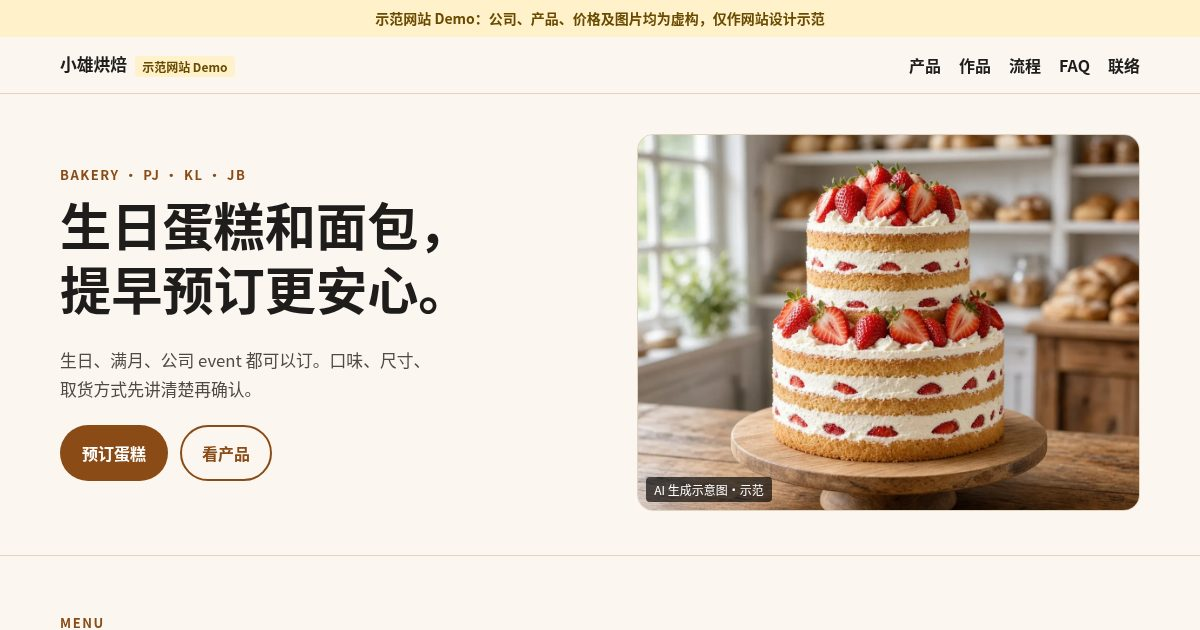
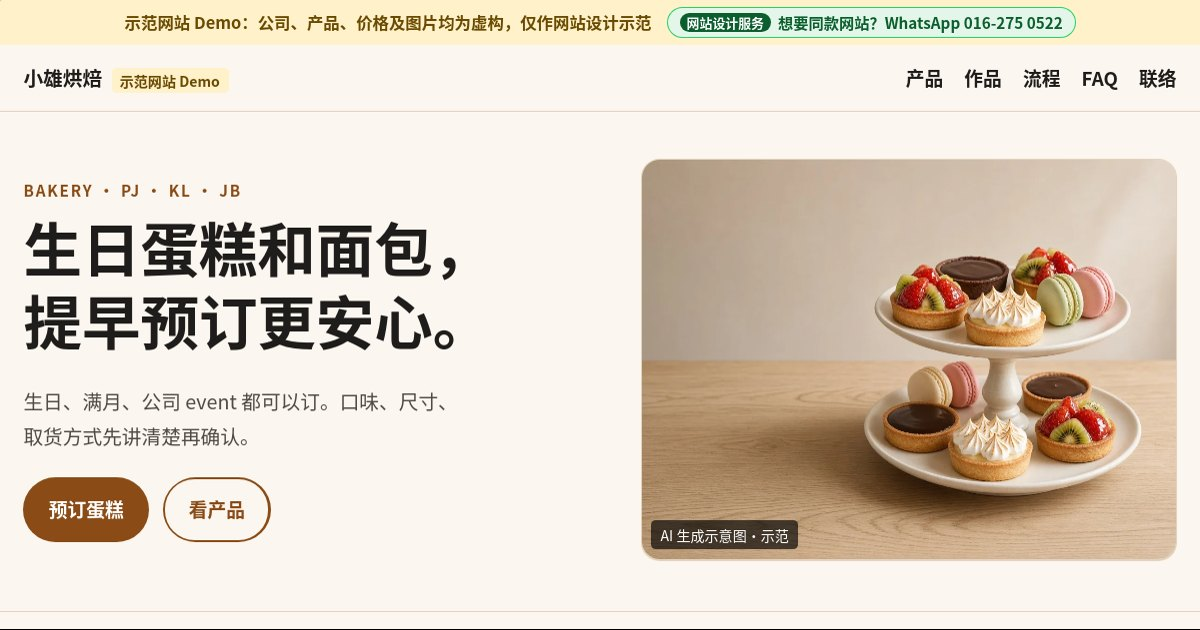
Bakery hero B; disable iOS phone auto-link

diff --git a/bakery-my/index.html b/bakery-my/index.html
@@ -2,6 +2,7 @@
 <html lang="zh-Hans-MY">
 <head>
 <meta charset="utf-8">
+<meta name="format-detection" content="telephone=no">
 <meta name="viewport" content="width=device-width,initial-scale=1,viewport-fit=cover">
 <title>小雄烘焙｜生日蛋糕、面包、塔类及节庆礼盒（示范网站 Demo）</title>
 <meta name="description" content="小雄烘焙（示范网站，虚构公司）：生日蛋糕、手工面包、塔类甜点及节庆礼盒订制，服务巴生谷 Klang Valley 及新山 JB。">
@@ -27,10 +28,10 @@
 <h1>生日蛋糕和面包，<br>提早预订更安心。</h1>
 <p class="lead">生日、满月、公司 event 都可以订。口味、尺寸、取货方式先讲清楚再确认。</p>
 <div class="cta-row"><a class="btn primary" href="#contact">预订蛋糕</a><a class="btn ghost" href="#services">看产品</a></div></div>
-<figure class="fig"><picture><source type="image/webp" srcset="assets/hero.webp"><img src="assets/hero.jpg" width="1024" height="768" alt="草莓奶油生日蛋糕（AI 生成示意图・示范）" fetchpriority="high" decoding="async"></picture><span class="lbl">AI 生成示意图・示范</span></figure></div></section>
+<figure class="fig"><picture><source type="image/webp" srcset="assets/hero.webp"><img src="assets/hero.jpg" width="1024" height="768" alt="法式甜点与水果塔（AI 生成示意图・示范）" fetchpriority="high" decoding="async"></picture><span class="lbl">AI 生成示意图・示范</span></figure></div></section>
 <main>
 <section id="services" class="sec"><div class="wrap"><p class="eyebrow">MENU</p><h2>产品与订制</h2><p class="sec-lead">以下价格均为示范占位，并非真实报价，以真实商家为准。</p><ul class="svc"><li><h3>生日蛋糕</h3><p>可选口味及尺寸，写字另计（示范）。</p><span class="price-ph">示范价格 RM XX 起（参考占位）</span></li><li><h3>手工面包</h3><p>吐司、软包，每日款式由商家更新。</p><span class="price-ph">示范价格 RM X 起（参考占位）</span></li><li><h3>塔类甜点</h3><p>蛋塔、水果塔，适合下午茶。</p><span class="price-ph">示范价格 RM X 起（参考占位）</span></li><li><h3>曲奇饼干</h3><p>罐装或散装，可做小礼物。</p><span class="price-ph">示范价格 RM XX 起（参考占位）</span></li><li><h3>节庆礼盒</h3><p>农历新年、中秋、Raya 礼盒（示范）。</p><span class="price-ph">示范价格 RM XX 起（参考占位）</span></li><li><h3>活动甜点桌</h3><p>公司或派对 dessert table，需预约。</p><span class="price-ph">示范价格 RM XXX 起（参考占位）</span></li></ul></div></section>
-<section id="gallery" class="sec alt"><div class="wrap"><p class="eyebrow">GALLERY</p><h2>产品示意</h2><p class="sec-lead">以下为 AI 生成示意图，并非真实产品／工程，仅作示范。</p><div class="gal"><div><figure class="fig"><picture><source type="image/webp" srcset="assets/hero.webp"><img src="assets/hero.jpg" width="1024" height="768" alt="草莓奶油生日蛋糕（AI 生成示意图・示范）" loading="lazy" decoding="async"></picture><span class="lbl">AI 生成示意图・示范</span></figure><figcaption>生日蛋糕（示意）</figcaption></div><div><figure class="fig"><picture><source type="image/webp" srcset="assets/bread.webp"><img src="assets/bread.jpg" width="1024" height="768" alt="手工面包（AI 生成示意图・示范）" loading="lazy" decoding="async"></picture><span class="lbl">AI 生成示意图・示范</span></figure><figcaption>手工面包（示意）</figcaption></div><div><figure class="fig"><picture><source type="image/webp" srcset="assets/tart.webp"><img src="assets/tart.jpg" width="1024" height="768" alt="水果塔（AI 生成示意图・示范）" loading="lazy" decoding="async"></picture><span class="lbl">AI 生成示意图・示范</span></figure><figcaption>水果塔（示意）</figcaption></div><div><figure class="fig"><picture><source type="image/webp" srcset="assets/cookie.webp"><img src="assets/cookie.jpg" width="1024" height="768" alt="礼盒曲奇（AI 生成示意图・示范）" loading="lazy" decoding="async"></picture><span class="lbl">AI 生成示意图・示范</span></figure><figcaption>礼盒曲奇（示意）</figcaption></div></div><p class="fine">※ AI 生成示意图，并非真实产品／工程，仅作示范。</p></div></section>
+<section id="gallery" class="sec alt"><div class="wrap"><p class="eyebrow">GALLERY</p><h2>产品示意</h2><p class="sec-lead">以下为 AI 生成示意图，并非真实产品／工程，仅作示范。</p><div class="gal"><div><figure class="fig"><picture><source type="image/webp" srcset="assets/hero.webp"><img src="assets/hero.jpg" width="1024" height="768" alt="法式甜点与水果塔（AI 生成示意图・示范）" loading="lazy" decoding="async"></picture><span class="lbl">AI 生成示意图・示范</span></figure><figcaption>法式甜点（示意）</figcaption></div><div><figure class="fig"><picture><source type="image/webp" srcset="assets/bread.webp"><img src="assets/bread.jpg" width="1024" height="768" alt="手工面包（AI 生成示意图・示范）" loading="lazy" decoding="async"></picture><span class="lbl">AI 生成示意图・示范</span></figure><figcaption>手工面包（示意）</figcaption></div><div><figure class="fig"><picture><source type="image/webp" srcset="assets/tart.webp"><img src="assets/tart.jpg" width="1024" height="768" alt="水果塔（AI 生成示意图・示范）" loading="lazy" decoding="async"></picture><span class="lbl">AI 生成示意图・示范</span></figure><figcaption>水果塔（示意）</figcaption></div><div><figure class="fig"><picture><source type="image/webp" srcset="assets/cookie.webp"><img src="assets/cookie.jpg" width="1024" height="768" alt="礼盒曲奇（AI 生成示意图・示范）" loading="lazy" decoding="async"></picture><span class="lbl">AI 生成示意图・示范</span></figure><figcaption>礼盒曲奇（示意）</figcaption></div></div><p class="fine">※ AI 生成示意图，并非真实产品／工程，仅作示范。</p></div></section>
 <section id="process" class="sec"><div class="wrap"><p class="eyebrow">HOW IT WORKS</p><h2>预订流程</h2><ol class="steps"><li><h3>选款式</h3><p>讲清楚口味、尺寸和数量。</p></li><li><h3>确认细节</h3><p>写字、过敏原及取货日期（示范）。</p></li><li><h3>付订金</h3><p>付款方式以真实商家为准（示范）。</p></li><li><h3>取货／送货</h3><p>自取或安排送货，详情由商家填写。</p></li></ol></div></section>
 <section id="contact" class="sec alt"><div class="wrap"><p class="eyebrow">CONTACT</p><h2>预订／查询</h2><p class="sec-lead">联络前可准备：</p><ul class="chips"><li>🎂 款式参考图</li><li>📏 尺寸或人数</li><li>📅 取货日期</li><li>⚠ 过敏原</li></ul>
 <p>电话：<span class="demo-phone">+60 1X-XXX XXXX（示范号码）</span></p>

diff --git a/tutor-my/index.html b/tutor-my/index.html
@@ -2,6 +2,7 @@
 <html lang="zh-Hans-MY">
 <head>
 <meta charset="utf-8">
+<meta name="format-detection" content="telephone=no">
 <meta name="viewport" content="width=device-width,initial-scale=1,viewport-fit=cover">
 <title>小雄补习中心｜小学、中学补习，华文、BM、English、数学、科学（示范网站 Demo）</title>
 <meta name="description" content="小雄补习中心（示范网站，虚构公司）：小学及中学补习：华文、BM、English、数学、科学，实体或网课，服务巴生谷 Klang Valley 及新山 JB。">

diff --git a/pest-my/index.html b/pest-my/index.html
@@ -2,6 +2,7 @@
 <html lang="zh-Hans-MY">
 <head>
 <meta charset="utf-8">
+<meta name="format-detection" content="telephone=no">
 <meta name="viewport" content="width=device-width,initial-scale=1,viewport-fit=cover">
 <title>小雄虫控｜白蚁检查处理、蟑螂、蚂蚁、老鼠及蚊虫处理（示范网站 Demo）</title>
 <meta name="description" content="小雄虫控（示范网站，虚构公司）：白蚁检查与处理、蟑螂、蚂蚁、老鼠及蚊虫处理，住家及店铺，服务巴生谷 Klang Valley 及新山 JB。">

diff --git a/index.html b/index.html
@@ -2,6 +2,7 @@
 <html lang="zh-Hans-MY">
 <head>
 <meta charset="utf-8">
+<meta name="format-detection" content="telephone=no">
 <meta name="viewport" content="width=device-width,initial-scale=1,viewport-fit=cover">
 <title>马来西亚小商家单页网站示范总览（示范网站 Demo）</title>
 <meta name="description" content="为马来西亚华人小商家设计的手机优先单页网站示范：装修、烘焙、花店、美甲美睫、补习、手作、冷气、搬屋、驱虫及宠物美容。所有公司均为虚构。">

diff --git a/handmade-my/index.html b/handmade-my/index.html
@@ -2,6 +2,7 @@
 <html lang="zh-Hans-MY">
 <head>
 <meta charset="utf-8">
+<meta name="format-detection" content="telephone=no">
 <meta name="viewport" content="width=device-width,initial-scale=1,viewport-fit=cover">
 <title>小雄手作｜手作陶器、香薰蜡烛、编织及皮革小物（示范网站 Demo）</title>
 <meta name="description" content="小雄手作（示范网站，虚构公司）：手作陶器、香薰蜡烛、编织及皮革小物，另有手作体验班，服务巴生谷 Klang Valley 及新山 JB。">

diff --git a/moving-my/index.html b/moving-my/index.html
@@ -2,6 +2,7 @@
 <html lang="zh-Hans-MY">
 <head>
 <meta charset="utf-8">
+<meta name="format-detection" content="telephone=no">
 <meta name="viewport" content="width=device-width,initial-scale=1,viewport-fit=cover">
 <title>小雄搬运｜搬屋、办公室搬迁、罗里出租及打包（示范网站 Demo）</title>
 <meta name="description" content="小雄搬运（示范网站，虚构公司）：住家搬屋、办公室搬迁、罗里连工人出租、打包及家具拆装，服务巴生谷 Klang Valley 及新山 JB。">

diff --git a/pet-grooming-my/index.html b/pet-grooming-my/index.html
@@ -2,6 +2,7 @@
 <html lang="zh-Hans-MY">
 <head>
 <meta charset="utf-8">
+<meta name="format-detection" content="telephone=no">
 <meta name="viewport" content="width=device-width,initial-scale=1,viewport-fit=cover">
 <title>小雄宠物美容｜狗狗猫咪洗澡、修毛、全套美容（示范网站 Demo）</title>
 <meta name="description" content="小雄宠物美容（示范网站，虚构公司）：狗狗及猫咪洗澡、修毛、全套美容，按体型及毛长分价，服务巴生谷 Klang Valley 及新山 JB。">

diff --git a/aircon-my/index.html b/aircon-my/index.html
@@ -2,6 +2,7 @@
 <html lang="zh-Hans-MY">
 <head>
 <meta charset="utf-8">
+<meta name="format-detection" content="telephone=no">
 <meta name="viewport" content="width=device-width,initial-scale=1,viewport-fit=cover">
 <title>小雄冷气｜冷气清洗、维修、加 gas 及安装（示范网站 Demo）</title>
 <meta name="description" content="小雄冷气（示范网站，虚构公司）：冷气清洗、维修检查、加冷气 gas、安装及拆装，服务巴生谷 Klang Valley 及新山 JB。">

diff --git a/nail-lash-my/index.html b/nail-lash-my/index.html
@@ -2,6 +2,7 @@
 <html lang="zh-Hans-MY">
 <head>
 <meta charset="utf-8">
+<meta name="format-detection" content="telephone=no">
 <meta name="viewport" content="width=device-width,initial-scale=1,viewport-fit=cover">
 <title>小雄美甲美睫｜美甲、嫁接睫毛、手足护理（示范网站 Demo）</title>
 <meta name="description" content="小雄美甲美睫（示范网站，虚构公司）：凝胶美甲、嫁接睫毛、手足护理及卸甲，服务巴生谷 Klang Valley 及新山 JB。">

diff --git a/florist-my/index.html b/florist-my/index.html
@@ -2,6 +2,7 @@
 <html lang="zh-Hans-MY">
 <head>
 <meta charset="utf-8">
+<meta name="format-detection" content="telephone=no">
 <meta name="viewport" content="width=device-width,initial-scale=1,viewport-fit=cover">
 <title>小雄花店｜花束、开张花篮、婚礼及节日花艺（示范网站 Demo）</title>
 <meta name="description" content="小雄花店（示范网站，虚构公司）：花束、开张花篮、婚礼花艺及节日订花，服务巴生谷 Klang Valley 及新山 JB。">

diff --git a/renovation-my/index.html b/renovation-my/index.html
@@ -2,6 +2,7 @@
 <html lang="zh-Hans-MY">
 <head>
 <meta charset="utf-8">
+<meta name="format-detection" content="telephone=no">
 <meta name="viewport" content="width=device-width,initial-scale=1,viewport-fit=cover">
 <title>小雄装修工程示范网站</title>
 <meta name="description" content="小雄装修工程（示范网站，虚构公司）：全屋翻新、厨厕翻新、水电、油漆、木工及防水，分项报价，服务巴生谷 Klang Valley 及新山 JB。">
